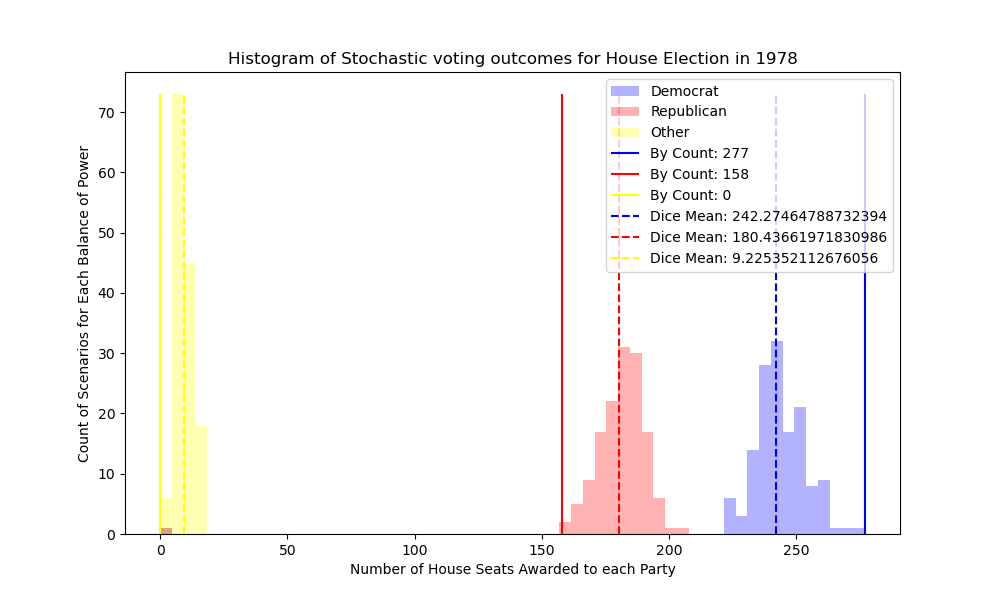
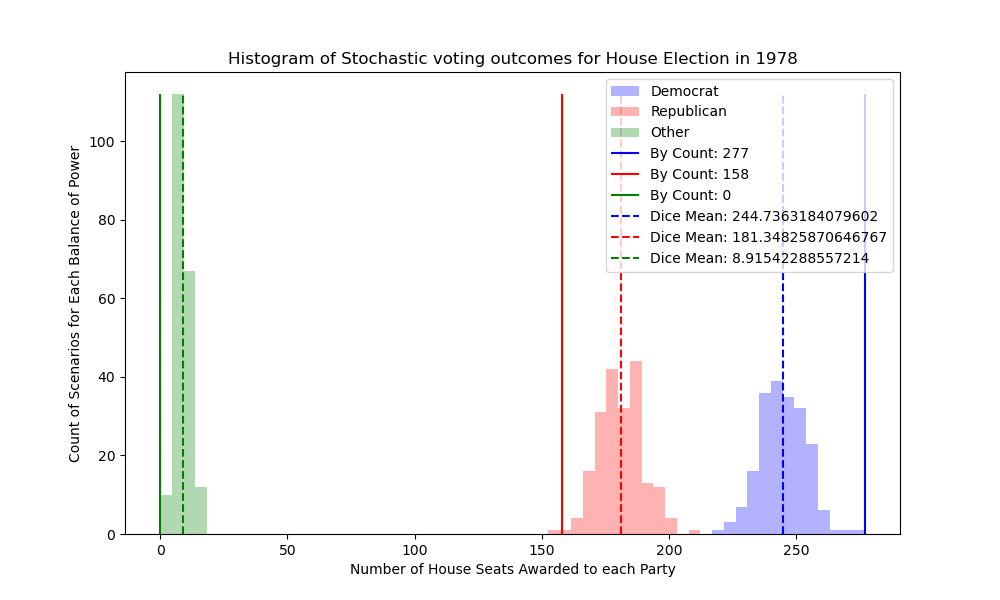
local changes

diff --git a/vote.py b/vote.py
@@ -98,7 +98,7 @@ for year in control["year"].unique():
   bins = np.histogram(np.hstack((da, ra, oa)), bins=60)[1]
   dh = plt.hist(da, bins, color="blue", alpha=0.3, label="Democrat")
   rh = plt.hist(ra, bins, color="red", alpha=0.3, label="Republican")  
-  oh = plt.hist(oa, bins, color="green", alpha=0.3, Label = "Other")
+  oh = plt.hist(oa, bins, color="green", alpha=0.3, label = "Other")
   ymax = np.array([dh[0], rh[0], oh[0]]).max()
   dc = np.array(control_y.loc[control_y["party_major"] == "DEMOCRAT", "count_win"])[0]
   rc = np.array(control_y.loc[control_y["party_major"] == "REPUBLICAN", "count_win"])[0]
@@ -136,7 +136,7 @@ hdg = house_dice.groupby(["state_district"])["dice_win-0"].sum().reset_index()
 # # notes on voting strategy
 # #	gerymandering and districting due to lack of representation becomes irelevant
 # # 	vote for your longshot candidate because it actually increases their chance of getting elected
-# #       veto voting -- allow people to cast their vote negatively, ONLY decrease the chances of one candidate
-# # makes it much harder for career politicians
-
+# #     veto voting -- allow people to cast their vote negatively, ONLY decrease the chances of one candidate
+# # 	makes it much harder for career politicians
+# #     can a sample of 200 outcomes be averaged to pick by state? like, can we force it to pick an outcome near the mean in order to reduce randomness? (We don't need to, but I think it would be better...
 # #       
